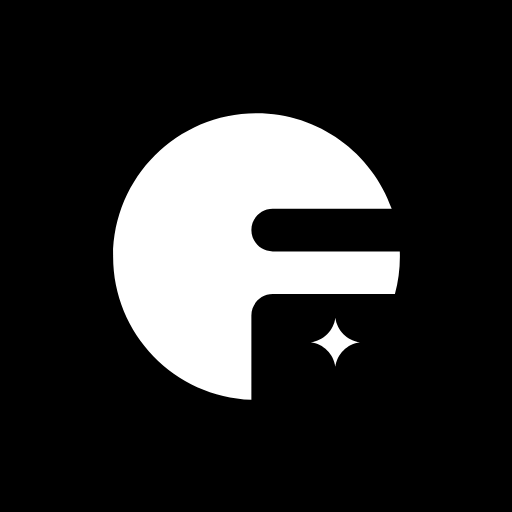
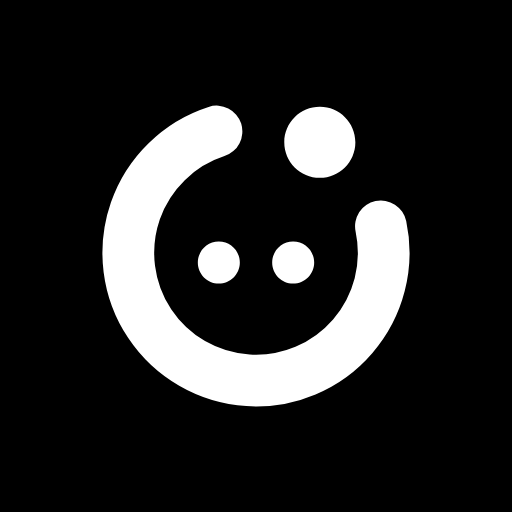
Rename the company from Flowa AI to Onvlo across the site
- Header, footer and browser icons now use the Onvlo mark.
- The company's project page is "Starting Onvlo", with screenshots of
  the live Onvlo site and a link to onvlo.com. The old address
  /work/flowa-ai redirects to it, in English and Chinese.
- Bio, experience, services and the dental project name Onvlo instead
  of Flowa AI, in both languages.
- Add the LinkedIn profile to the footer and the structured data.

Claude-Session: https://claude.ai/code/session_015YwbfjFcxjUedsHH96HC6A

Changed region(s): [[0.1875, 0.1875, 0.8125, 0.8125], [0.2812, 0.6875, 0.3125, 0.7188]]

diff --git a/src/config/site.ts b/src/config/site.ts
@@ -41,8 +41,11 @@ export const site = {
   // TODO: the name of your white-label CRM & marketing platform
   platformName: '' as string,
 
-  // TODO: add LinkedIn and any other profiles, e.g. { label: 'LinkedIn', href: 'https://www.linkedin.com/in/…' }
-  socials: [{ label: 'GitHub', href: 'https://github.com/jeiujl' }],
+  // Your own profiles (shown in the footer and listed in the page's structured data).
+  socials: [
+    { label: 'LinkedIn', href: 'https://www.linkedin.com/in/jerry-liu-55b9662b3/' },
+    { label: 'GitHub', href: 'https://github.com/jeiujl' },
+  ],
 
   // The homepage stats band. Numbers count up as they scroll into view.
   // Keep them true: clients check. TODO: as your numbers grow, swap in your

diff --git a/src/content.config.ts b/src/content.config.ts
@@ -42,7 +42,7 @@ const projects = defineCollection({
 });
 
 // Chinese versions of the projects, one file per project with the same file
-// name (e.g. projects-zh/flowa-ai.md). The body is the translated write-up;
+// name (e.g. projects-zh/onvlo.md). The body is the translated write-up;
 // any field left out falls back to the English one.
 const projectsZh = defineCollection({
   loader: glob({ pattern: '**/*.md', base: './src/content/projects-zh' }),

diff --git a/src/content/projects/onvlo.md b/src/content/projects/onvlo.md
@@ -1,0 +1,28 @@
+---
+title: Starting Onvlo
+client: Onvlo (my company)
+summary: Founded Onvlo, a company that builds AI systems for sales and business operations, like lead follow-up and missed-call text-back.
+category: ai
+role: Founder
+tools: [Automation, Missed-call text-back, AI]
+featured: true
+order: 2
+liveUrl: https://onvlo.com
+cover: ./images/onvlo-cover.webp
+coverAlt: "The Onvlo homepage in a desktop browser: a glowing ribbon of light above the headline 'Put AI systems to work on sales and operations', with Book a discovery call and See how it works buttons."
+gallery:
+  - src: ./images/onvlo-1.webp
+    alt: "A section of the Onvlo site headed 'See a system, step by step': a workflow panel running a five-step sales follow-up from lead intake to CRM update, with an activity log underneath."
+  - src: ./images/onvlo-2.webp
+    alt: "The Onvlo services page: 'Every lead answered, then followed up', a list of what the sales follow-up system includes, its starting price and a small pipeline board with New, Replied and Booked columns."
+  - src: ./images/onvlo-3.webp
+    alt: "A section of the Onvlo site headed 'A short report on what it did', with three sample report cards: leads answered, first reply time and invoices followed up."
+---
+
+## What Onvlo does
+
+Onvlo builds **AI systems** for sales and business operations: sales follow-up, AI operations agents, lead generation, and websites and apps. One example is **missed-call text-back**, so callers who can't get through still get a reply.
+
+## An Onvlo project
+
+- Missed-call text-back for a [dental services company](/work/dental-missed-calls/)

diff --git a/src/content/projects-zh/onvlo.md b/src/content/projects-zh/onvlo.md
@@ -1,0 +1,20 @@
+---
+title: 创办 Onvlo
+client: Onvlo（我的公司）
+summary: 创办了 Onvlo，一家为企业打造销售与业务运营 AI 系统的公司，比如潜在客户跟进和未接来电自动回短信。
+role: 创始人
+tools: [自动化, 未接来电自动回短信, AI]
+coverAlt: "桌面浏览器中的 Onvlo 首页：一条发光的光带下方是标题 Put AI systems to work on sales and operations，以及 Book a discovery call 和 See how it works 两个按钮。"
+galleryAlts:
+  - "Onvlo 网站中标题为 See a system, step by step 的版块：一个工作流面板正在运行从接收咨询到更新 CRM 的五步销售跟进流程，下方是活动记录。"
+  - "Onvlo 的服务页面：Every lead answered, then followed up，列出销售跟进系统包含的内容、起步价，以及一个分为 New、Replied 和 Booked 三列的小型销售看板。"
+  - "Onvlo 网站中标题为 A short report on what it did 的版块，有三张示例报告卡片：已回复的潜在客户、首次回复时间和已跟进的发票。"
+---
+
+## Onvlo 做什么
+
+Onvlo 为销售与业务运营打造 **AI 系统**：销售跟进、AI 运营智能体、获客，以及网站和应用。比如**未接来电自动回短信**，让打不进来的客户也能收到回复。
+
+## 一个 Onvlo 项目
+
+- 为一家[牙科服务公司](/zh/work/dental-missed-calls/)设置未接来电自动回短信

diff --git a/src/content/projects/dental-missed-calls.md b/src/content/projects/dental-missed-calls.md
@@ -1,9 +1,9 @@
 ---
 title: Missed-call text-back for a dental company
 client: "Northview Dental Studio"
-summary: Set up missed-call text-back through Flowa AI, so patients who call when nobody can answer still get a text back.
+summary: Set up missed-call text-back through Onvlo, so patients who call when nobody can answer still get a text back.
 category: crm
-role: Automation setup, through Flowa AI
+role: Automation setup, through Onvlo
 tools: [Missed-call text-back]
 workflow:
   - label: A patient calls
@@ -29,5 +29,5 @@ Any busy front desk misses a call now and then, and Northview Dental Studio was 
 
 ## What I did
 
-- Set up **missed-call text-back** through Flowa AI, so callers who can't get through get a text right away
+- Set up **missed-call text-back** through Onvlo, so callers who can't get through get a text right away
 - Patients can **reply to the text** instead of calling back

diff --git a/src/content/projects-zh/dental-missed-calls.md b/src/content/projects-zh/dental-missed-calls.md
@@ -1,7 +1,7 @@
 ---
 title: 为牙科诊所设置未接来电自动回短信
-summary: 通过 Flowa AI 设置了未接来电自动回短信，即使没人能接听，来电的患者也会收到短信回复。
-role: 自动化搭建（通过 Flowa AI）
+summary: 通过 Onvlo 设置了未接来电自动回短信，即使没人能接听，来电的患者也会收到短信回复。
+role: 自动化搭建（通过 Onvlo）
 tools: [未接来电自动回短信]
 workflow:
   - label: 患者来电
@@ -22,5 +22,5 @@ galleryAlts:
 
 ## 我做了什么
 
-- 通过 Flowa AI 设置了**未接来电自动回短信**，打不进来的患者会立即收到短信
+- 通过 Onvlo 设置了**未接来电自动回短信**，打不进来的患者会立即收到短信
 - 患者可以**直接回复短信**，不用再打电话
